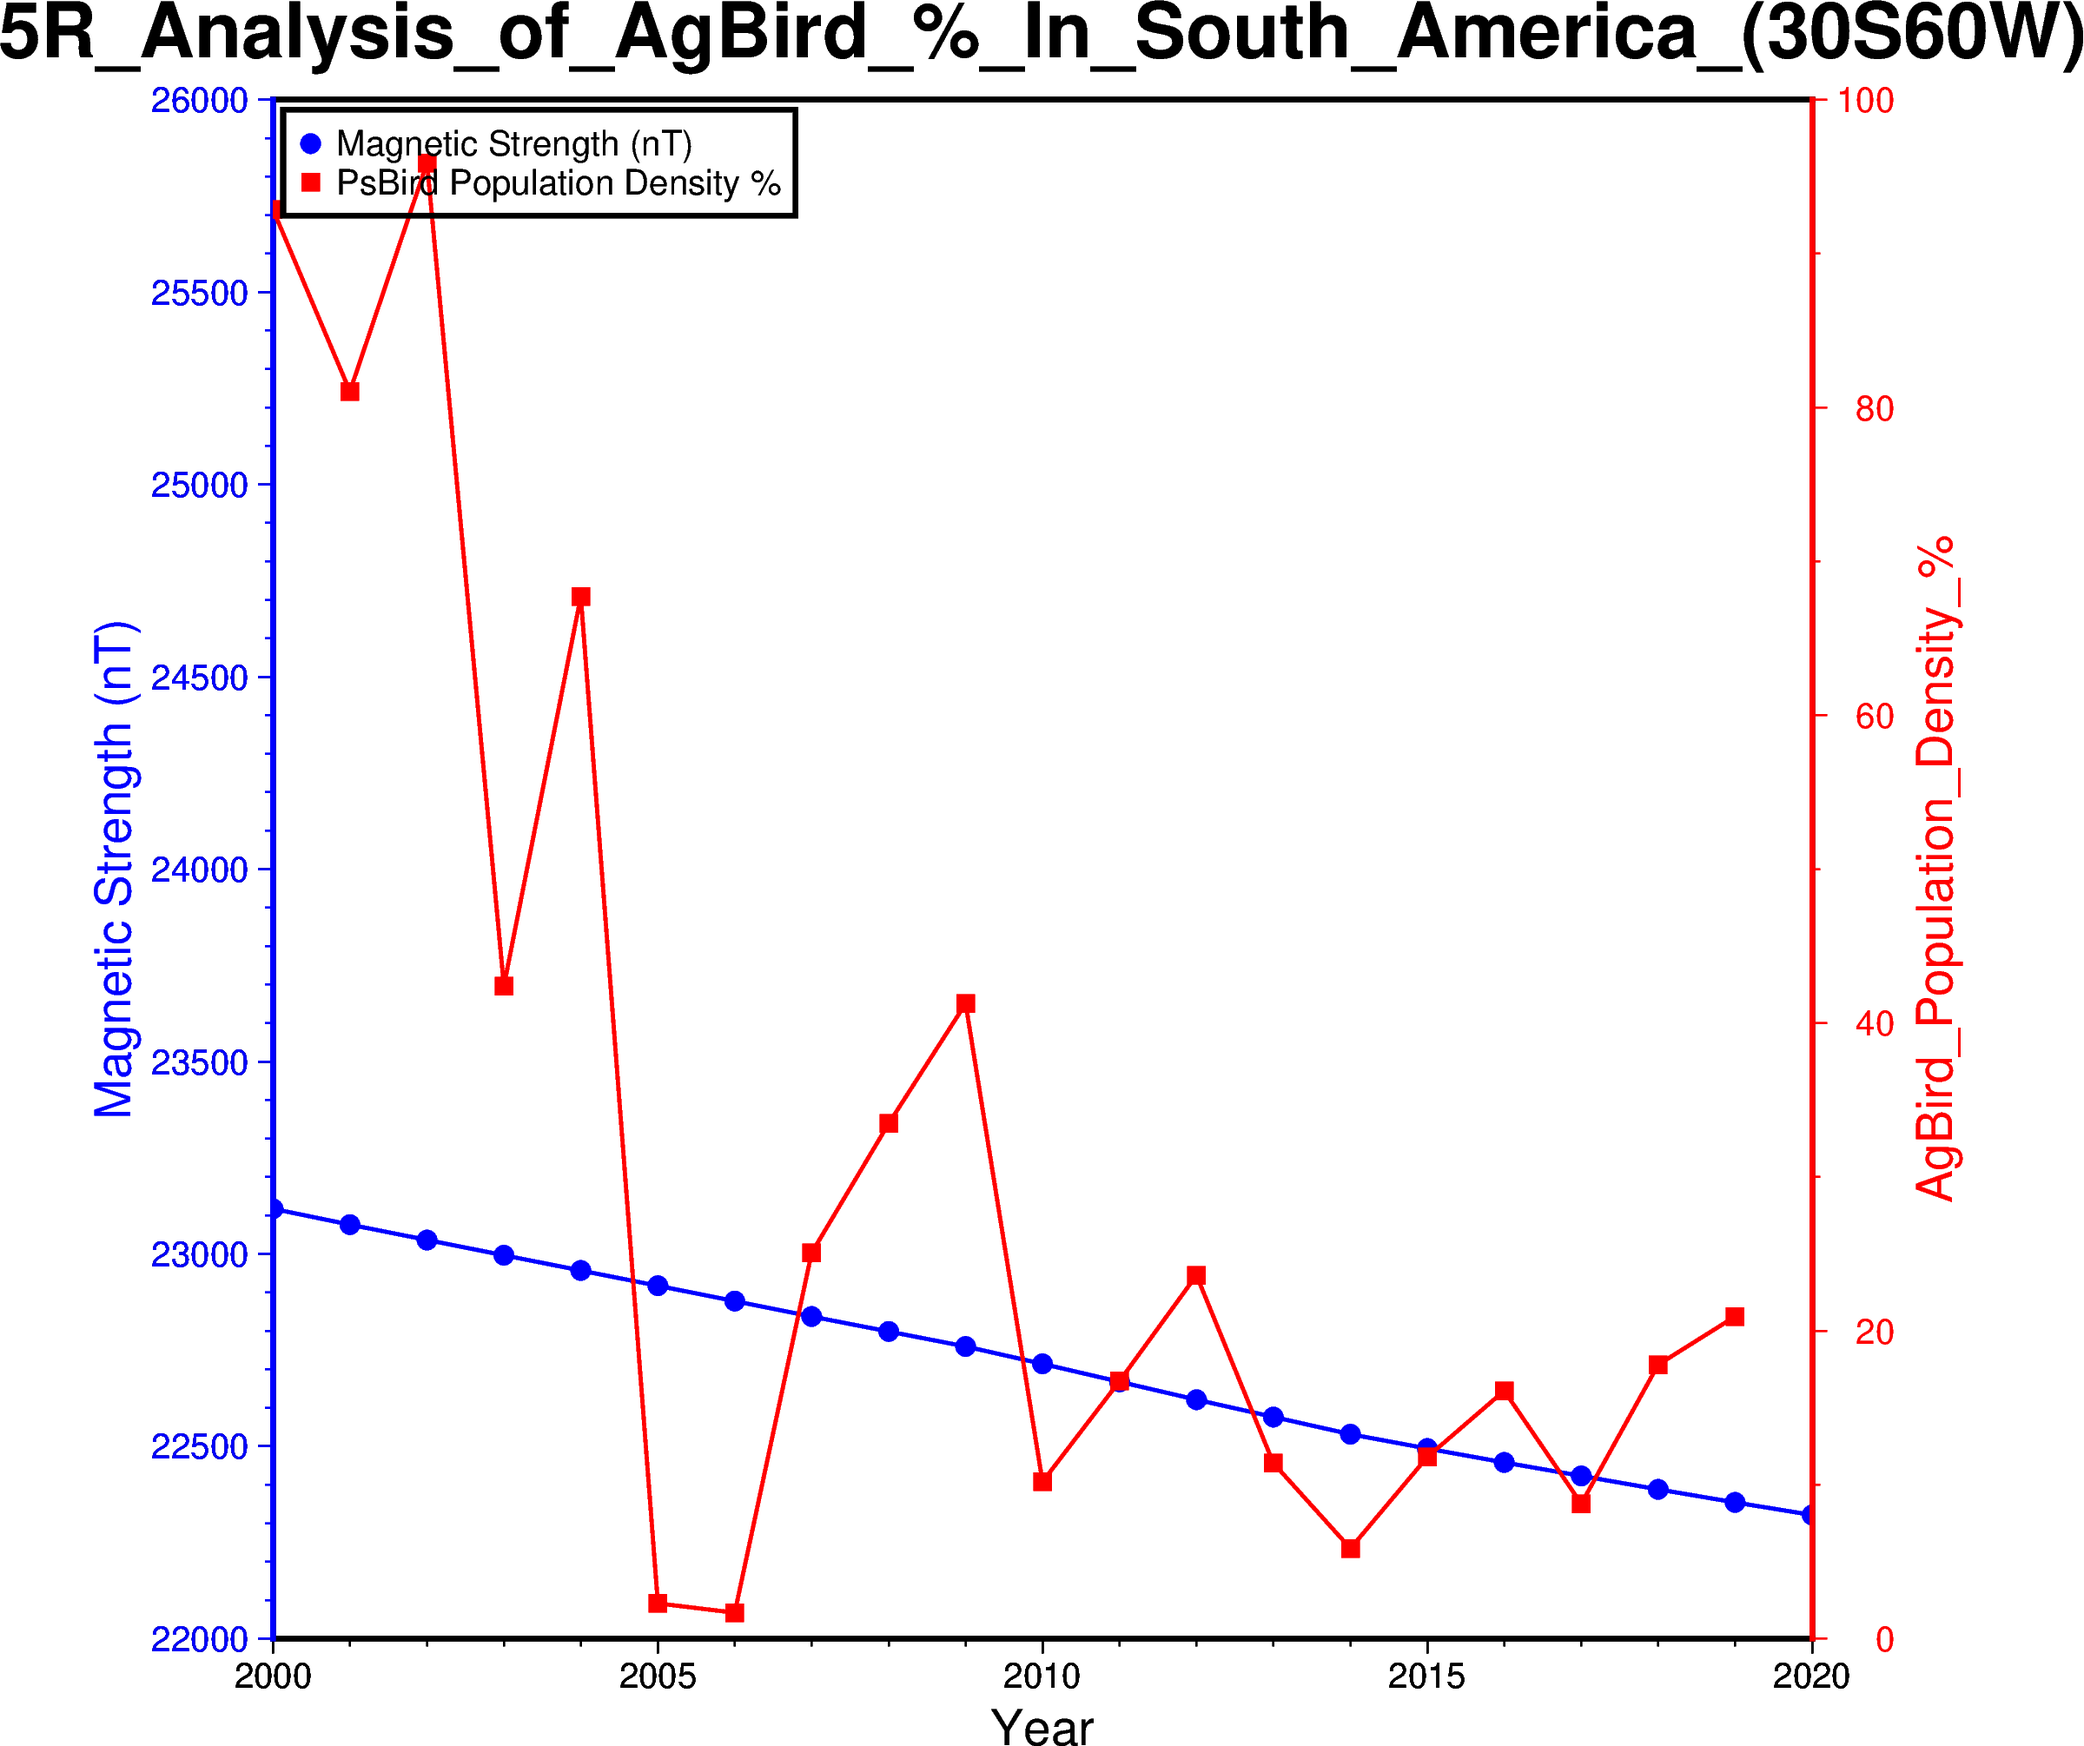
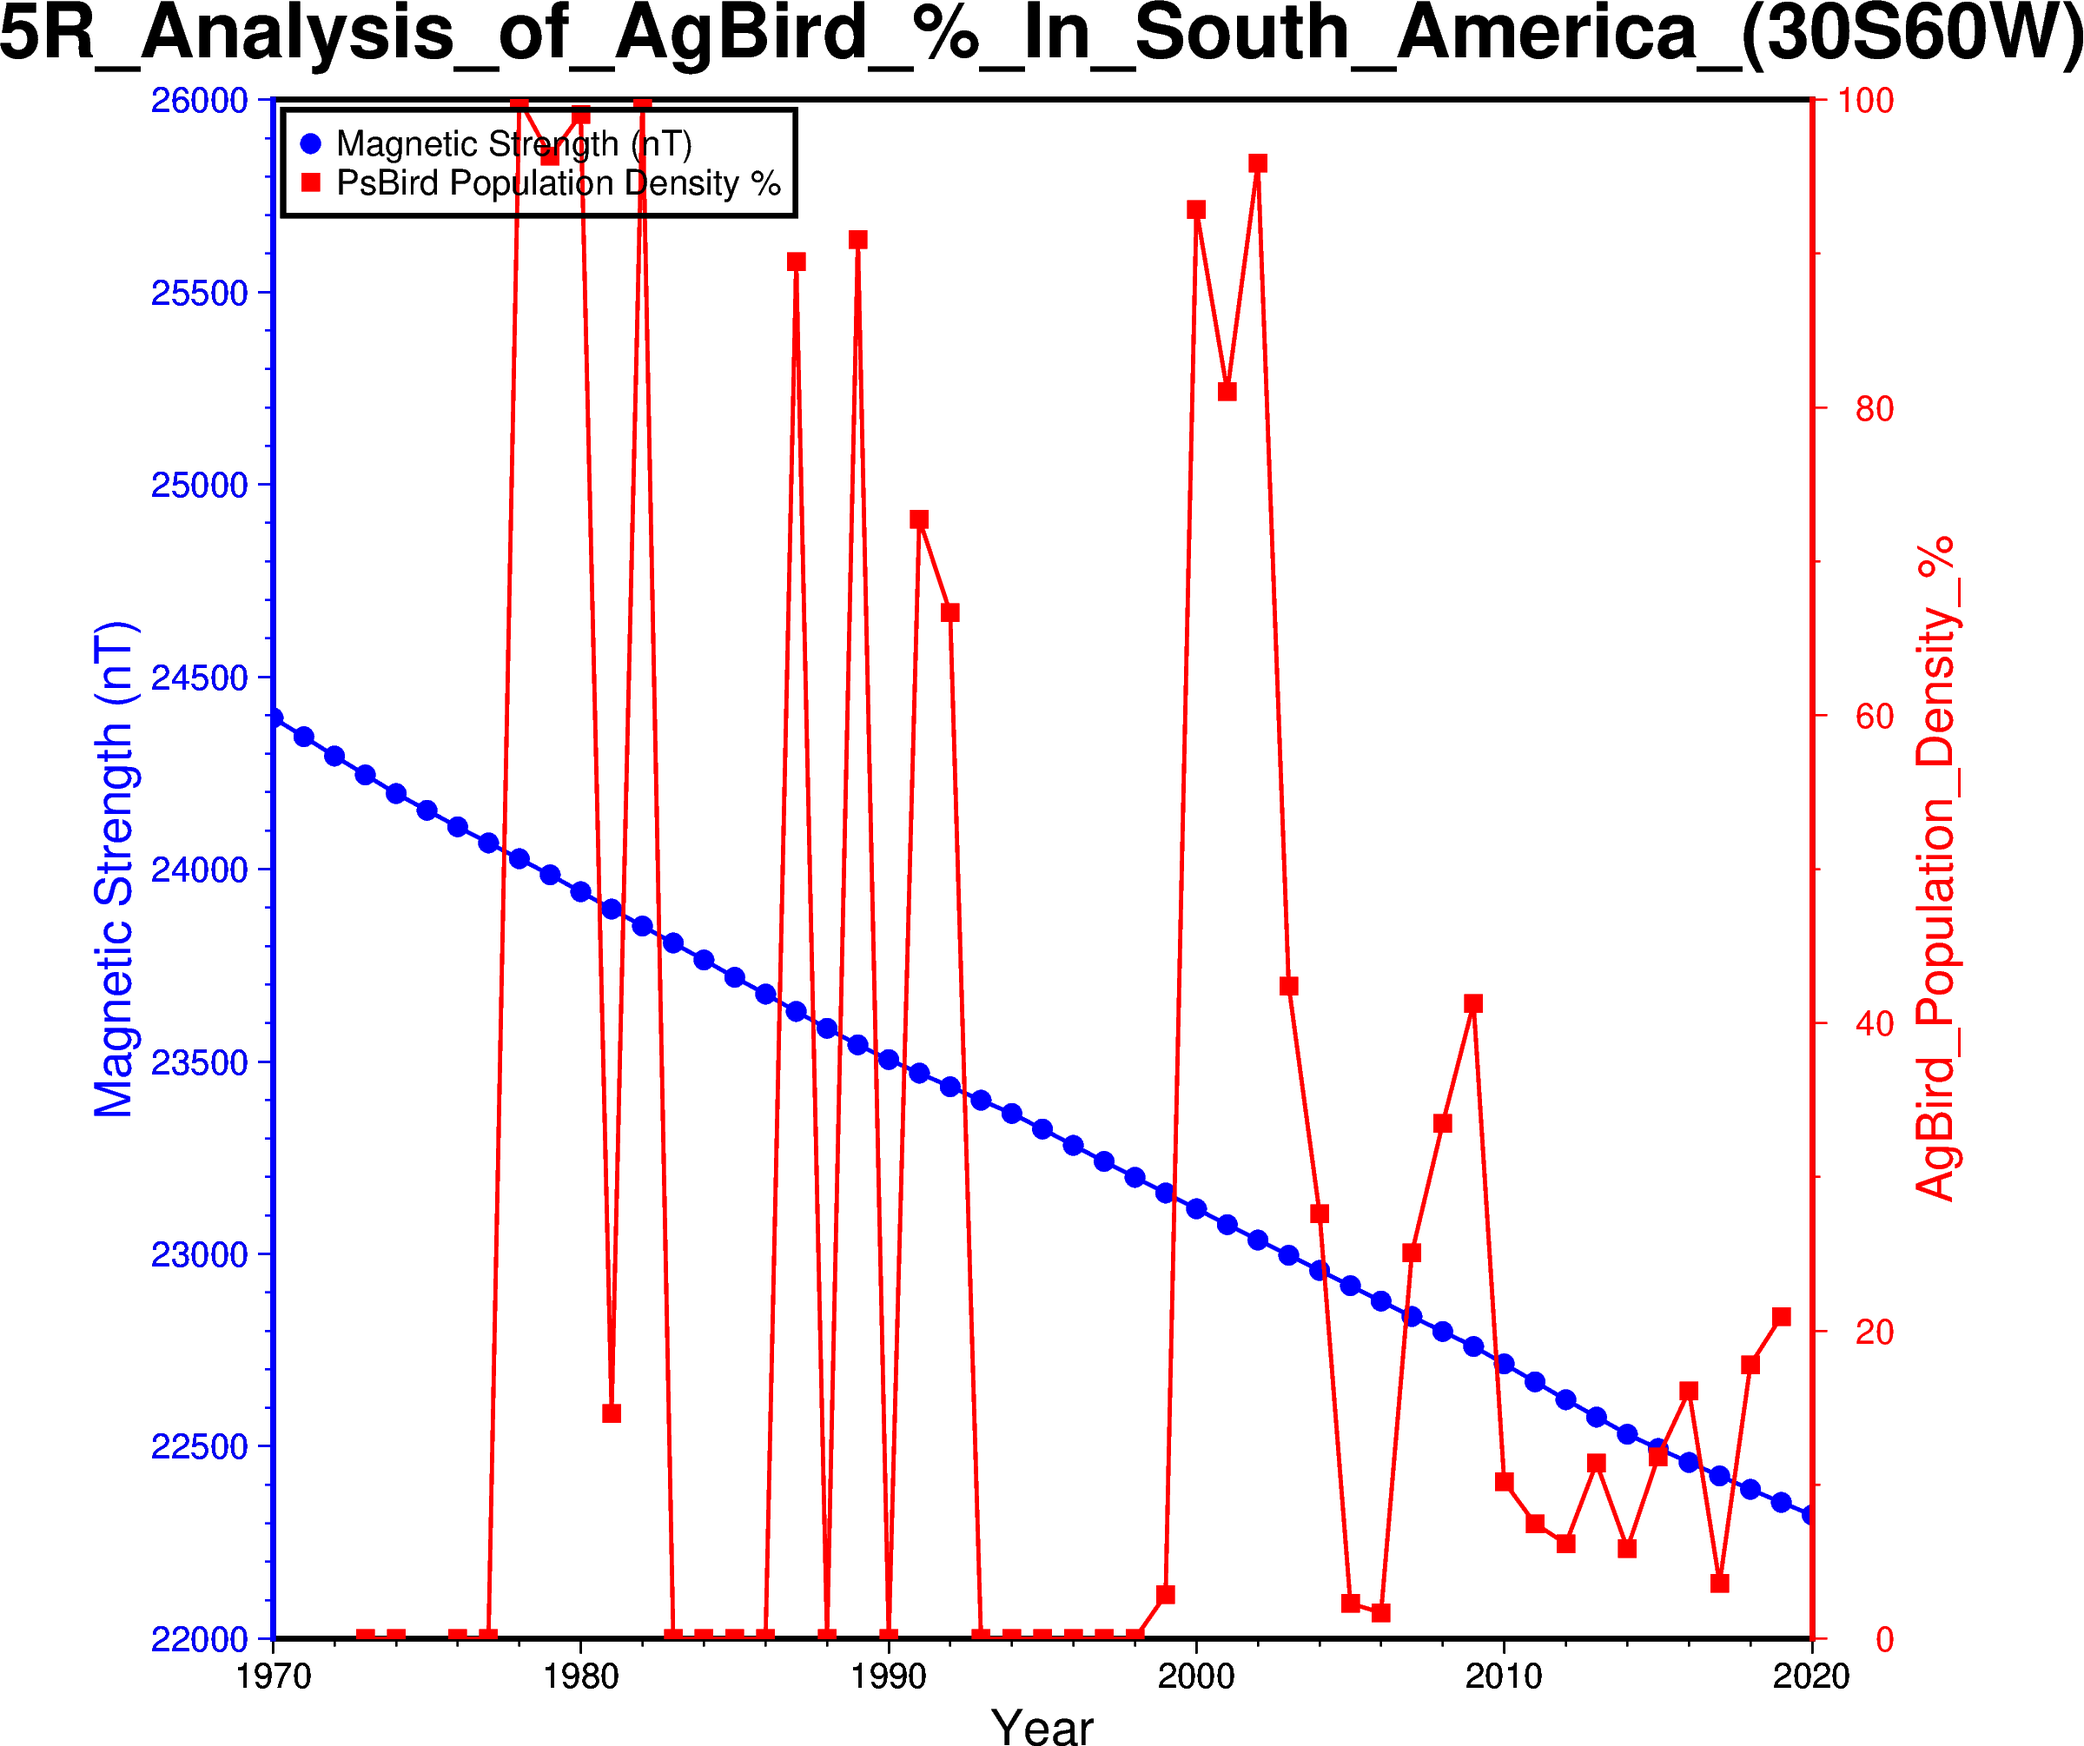
Udpate

diff --git a/sorting.py b/sorting.py
@@ -80,7 +80,7 @@ def yearCount(smallSet, bigSet, yearMin, yearMax):
         smallSet = smallSet.append(pd.DataFrame({'year': i, 'countS': bigSet.query('year == @i')['individualCount'].sum()}, index = [0]), ignore_index = True)
     return smallSet
 
-smallCount = largeCount = smallCountP = largeCountP = smallCountH = largeCountH = smallCountW = largeCountW = smallCountF = largeCountF = smallCountNAPlover = largeCountNAPlover = smallCountNAPiper = largeCountNAPiper = smallCountNARump = largeCountNARump = smallCountNAHawk = largeCountNAHawk = pd.DataFrame({'year':[], 'countS':[]})
+smallCount = largeCount = smallCountP = largeCountP = smallCountH = largeCountH = smallCountW = largeCountW = smallCountF = largeCountF = smallCountNAPlover = largeCountNAPlover = smallCountNAPiper = largeCountNAPiper = smallCountNARump = largeCountNARump = smallCountNAHawk = largeCountNAHawk = smallCountScreamer = largeCountScreamer = pd.DataFrame({'year':[], 'countS':[]})
 smallCount = yearCount(smallCount, specificMessing, 2000, 2020)
 largeCount = yearCount(largeCount, southAmericanPlover, 2000, 2020)
 

diff --git a/figureMaker.py b/figureMaker.py
@@ -112,7 +112,7 @@ def graphMaker(radius, yearMin, yearMax, magMin, magMax, percentMin, percentMax,
     print("{}R Analysis of {} % In {} ({}{}) Successfully Updated.".format(rName, birdName, region, latName, lonName))
 
 #(radius, yearMin, yearMax, magMin, magMax, percentMin, percentMax, birdName, rawBirdFile, populationCap, rawMagData, region, latitude, longitude, latMin, latMax, lonMin, lonMax)
-graphMaker(5, 2000, 2020, 22000, 26000, 0, 100, "AgBird", "plovercsv.csv", 1000, "3060fullmag.csv", "South_America", -30, -60, -60, 0, -90, -30)
+graphMaker(5, 1970, 2020, 22000, 26000, 0, 100, "AgBird", "plovercsv.csv", 10000, "3060fullmag.csv", "South_America", -30, -60, -60, 0, -90, -30)
 graphMaker(5, 2000, 2020, 22000, 26000, 0, 100, "Southern_Screamer", "unfilteredSouthernScreamer.csv", 1000, "3060fullmag.csv", "South_America", -30, -60, -60, 0, -90, -30)
 mapMaker(2000,2020,"AgBird", "plovercsv.csv",-90, 177,-55,1)
 mapMaker(1970,2020,"AgBird", "plovercsv.csv",-150, -60,0,60)
